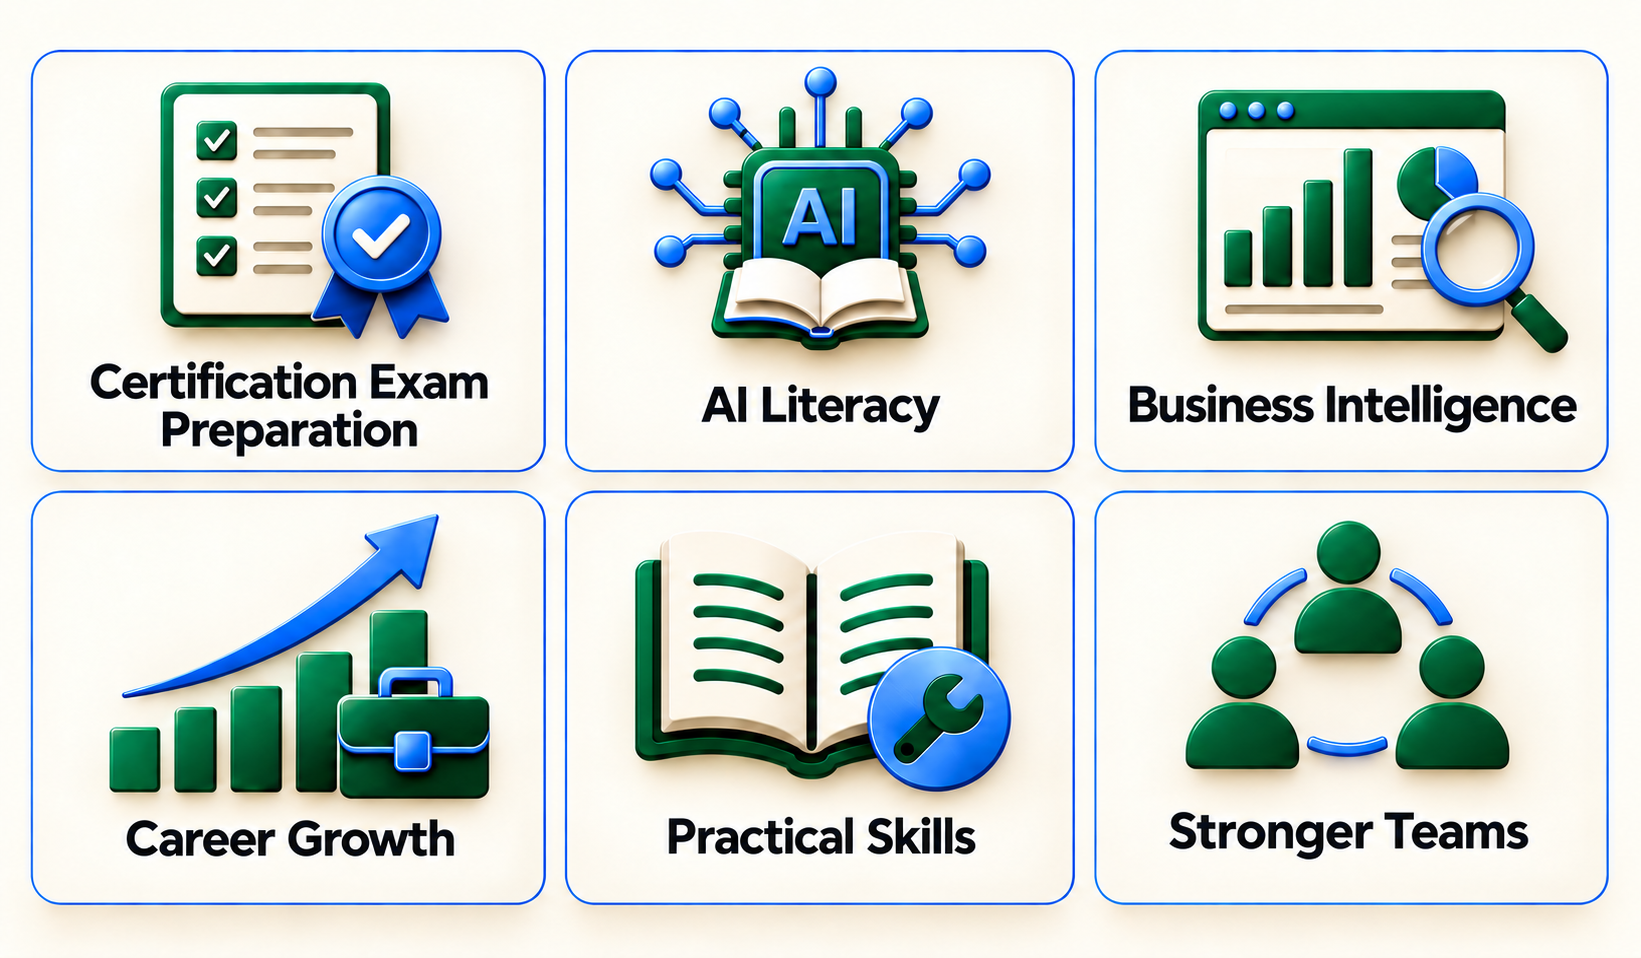
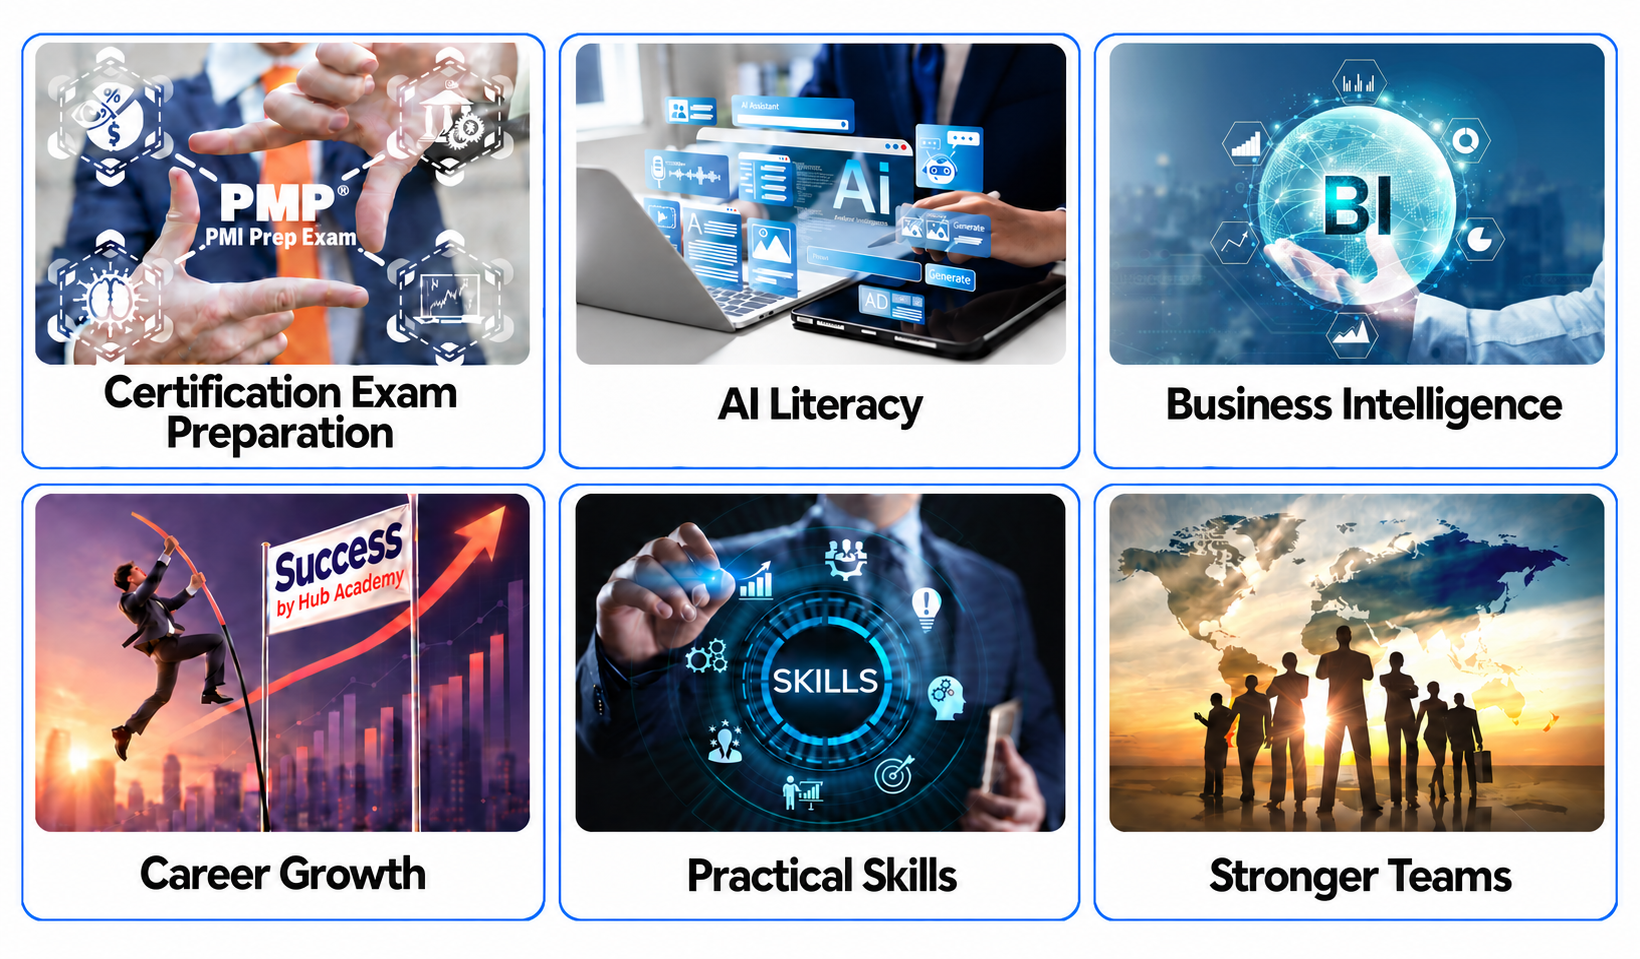
Landing: update hero outcomes image (v2)

diff --git a/fastapi_templates/home.html b/fastapi_templates/home.html
@@ -9,7 +9,7 @@
     <section class="hero hero-media reveal">
         <div class="hero-skills-panel">
             <h2 class="hero-skills-title">Welcome to Hub Academy</h2>
-            <img class="hero-skills-img" src="/static/images/landing-outcomes.png?v=1" alt="Hub Academy outcomes: Certification Exam Preparation, AI Literacy, Business Intelligence, Career Growth, Practical Skills, Stronger Teams">
+            <img class="hero-skills-img" src="/static/images/landing-outcomes.png?v=2" alt="Hub Academy outcomes: Certification Exam Preparation, AI Literacy, Business Intelligence, Career Growth, Practical Skills, Stronger Teams">
             <ul class="hero-skills-ticks">
                 <li class="tick-blue"><i class="fas fa-check"></i><span>Executive and professional education that turns strategy into results and ambition into achievement.</span></li>
                 <li class="tick-green"><i class="fas fa-check"></i><span>Where ambition becomes expertise. Sharpen your edge and accelerate your career.</span></li>
